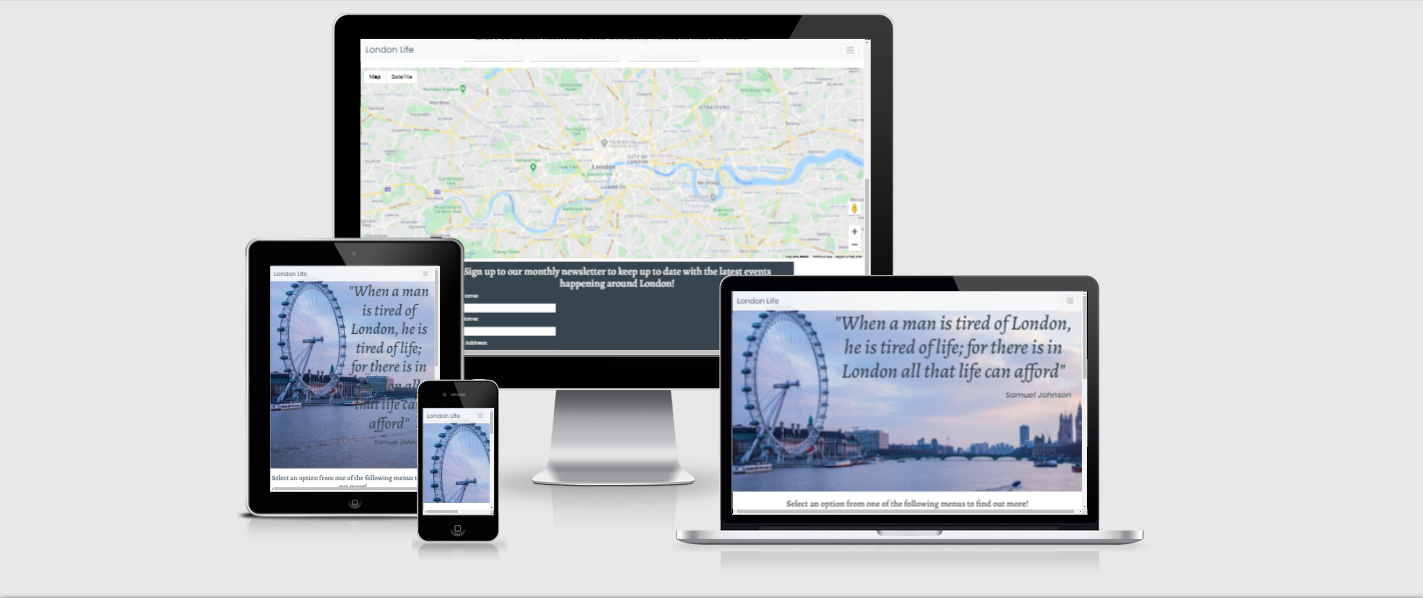
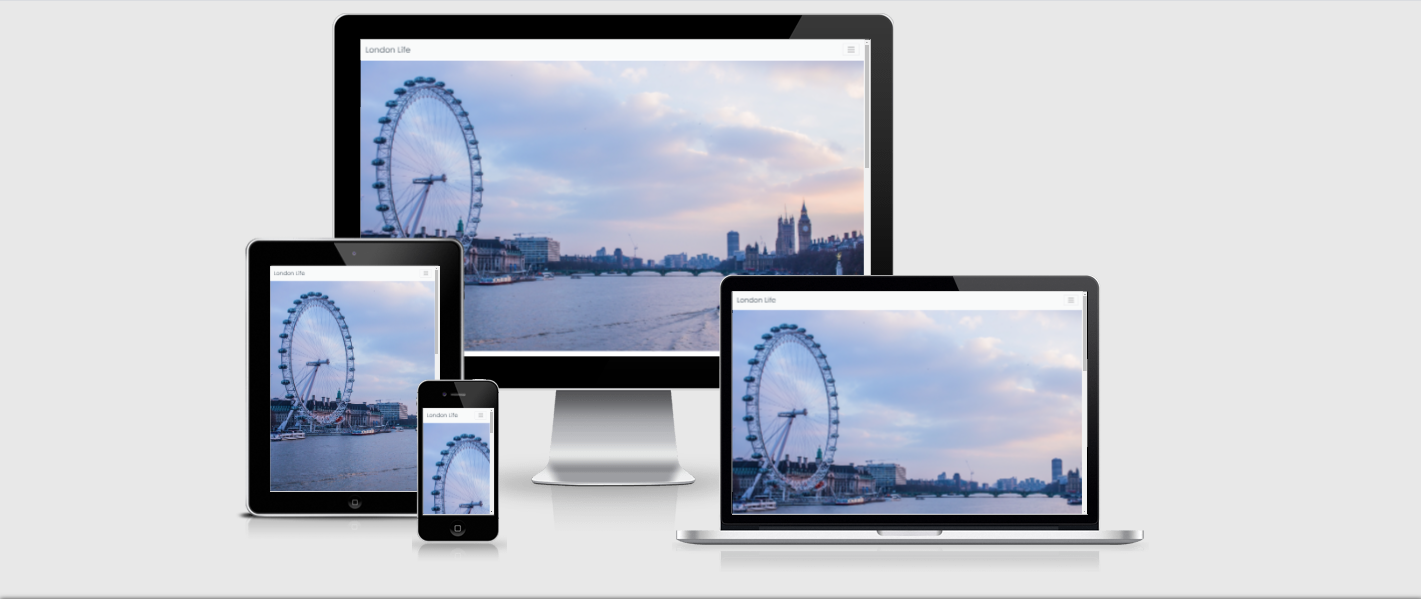
added more to Testing section of README.MD

Changed region(s): [[0.1548, 0.0602, 0.8051, 0.9331], [0.0, 0.9933, 1.0, 1.0]]

diff --git a/index.html b/index.html
@@ -40,34 +40,7 @@
         </nav>
     </header>
     <section>
-        <div class="quote-bg-img" id="slideshow">
-            <!-- <div>
-                <img src="assets/images/quote-bg-img.jpg" alt="The London Eye by the River Thames">
-            </div>
-            <div>
-                <img src="assets/images/img2.jpg" alt="Tower Bridge at sunset">
-            </div>
-            <div>
-                <img src="assets/images/img3.jpg" alt="London skyline at sunset">
-            </div>
-            <div>
-                <img src="assets/images/img4.jpg" alt="Tower Bridge at Night">
-            </div>
-            <div>
-                <img src="assets/images/img5.jpg" alt="London train station">
-            </div>
-            <div>
-                <img src="assets/images/img6.jpg" alt="Quiet old London side street">
-            </div>
-            <div>
-                <img src="assets/images/img7.jpg" alt="View of St Pauls Cathedral from the Millenium Bridge">
-            </div>
-            <div>
-                <img src="assets/images/img8.jpg" alt="St Pauls Cathedral">
-            </div>
-            <div>
-                <img src="assets/images/img9.jpg" alt="London skyline during daytime">
-            </div> -->
+        <div class="quote-bg-img">
         </div>
         <h1 class="hero-quote"><em>"When a man is tired of London, he is tired of life; 
                 for there is in London all that life can afford"</em></h1>
@@ -132,53 +105,35 @@
     </section>
     <section id="form-nav-link" class="container">
     <div class="row">
-        <div class="container signup-form">
+        <div class="container newsletter-form">
             <form class="row form" id="signup-form" onsubmit="return sendMail(this);">
                 <div class="col-12">
                     <h3 class="form-header">Sign up to our monthly newsletter!</h3>
                     <div class="row">
                         <div class="col-md-6 mb-3">
                             <label for="fname">First name:</label>
-                            <input type="text" class="form-control" id="fname" pattern="[A-Za-z]{1,20}" required>
+                            <input type="text" class="form-control" id="fname" placeholder="John" pattern="[A-Za-z]{1,20}" required>
                         </div>
                         <div class="col-md-6 mb-3">
                             <label for="lname">Last name:</label>
-                            <input type="text" class="form-control" id="lname" pattern="[A-Za-z]{1,20}" required>
+                            <input type="text" class="form-control" id="lname" placeholder="Doe" pattern="[A-Za-z]{1,20}" required>
                         </div>
                     </div>
                     <div class="row">
                         <div class="col-md-6 mb-3">
                             <label for="phone">Phone:</label>
-                            <input type="tel" class="form-control" id="phone" pattern="[0-9]{11}" placeholder="000-000-0000" required>
+                            <input type="tel" class="form-control" id="phone" pattern="[0-9]{11}" placeholder="xxxxx-xxxxxx" required>
                         </div>
                         <div class="col-md-6 mb-3">
                             <label for="email">Email:</label>
-                            <input type="email" class="form-control" id="email" placeholder="you@example.com" required>
+                            <input type="email" class="form-control" id="email" placeholder="johndoe@example.com" required>
                         </div>
                     </div>
                     <div class="col-12" id="form-button">
-                        <button class="btn btn-primary btn-lg text-center" id="submit" data-toggle="modal" data-target="#myModal" type="submit">Send</button>
+                        <button class="btn btn-primary btn-lg text-center" id="form-submit" type="submit">Send</button>
                     </div>
                 </div>
             </form>
-        </div>
-    </div>
-    <div class="modal fade" id="myModal" tabindex="-1" role="dialog" aria-labelledby="myModal" aria-hidden="true">
-        <div class="modal-dialog modal-dialog-centered" role="document">
-            <div class="modal-content">
-                <div class="modal-header">
-                    <h3 class="modal-title">Thank You!</h3>
-                    <button type="button" class="close" data-dismiss="modal" aria-label="Close">
-                    <span aria-hidden="true">&times;</span>
-                    </button>
-                </div>
-                <div class="modal-body">
-                    <p>Thanks for signing up to our newsletter! Check your email for a confirmation.</p>
-                </div>
-                <div class="modal-footer">
-                    <button type="button" class="btn btn-primary" id="modal-close-button" data-dismiss="modal">Close</button>
-                </div>
-            </div>
         </div>
     </div>
     </section>

diff --git a/assets/css/style.css b/assets/css/style.css
@@ -107,7 +107,7 @@ body {
 }
 
 /*----------------------------------------------Form*/
-.signup-form {
+.newsletter-form {
     display: block;
     text-align: center;
     min-width: 100%;

diff --git a/README.md b/README.md
@@ -3,10 +3,24 @@ Second Milestone Project for Code Institute
 
  ![](assets/images/devices.PNG)
 
-I wanted to design a website with an interactive map at the heart of it. I chose the Google Maps API as it widely used around the world.
+I wanted to design a website with an interactive map at the heart of it. I chose the Google Maps API as it widely used around the world. 
+I chose London to be the subject of the website as it is somewhere close to my heart having lived there for a few years and it has so much to offer. 
+I wanted to be able to show and give information about various places and attractions in London to someone who may never have visited there or for 
+someone who wanted to learn about some of the things that a visitor might want to know. I chose the EmailJS API so I could customize an auto reply 
+template so if a vistor signed up to the newsletter they would be notified soon after. 
 
 [The live project can be viewed here.](https://jgibson90.github.io/MS2---London-Life/)
 
+---
+# Contents
+- [UX](#ux)
+- [Features](#features)
+- [Technologies Used](#technologies-used)
+- [Testing](#testing)
+- [Bugs](#bugs)
+- [Deployment](#deployment)
+- [Credits](#credits)
+- [Special Thanks](#special-thanks)
 ---
 
 # UX
@@ -18,7 +32,7 @@ I wanted to design a website with an interactive map at the heart of it. I chose
     - As a user, I want to be able to easily interact with the site and the applications within
     - As a user, I want to be able to sign up to the Newsletter so that I can stay up to date every month
 
-    I made the wireframe using Balsamiq which you can view the wireframe [here.](assets/docs/London-Life-Wireframe.pdf)
+    I made the wireframe using Balsamiq which you can view the wireframe [here.](assets/images/Wireframe.png)
 
 ## Design Choices
 ---
@@ -42,15 +56,16 @@ footer.
 ![](assets/images/colours.png)
 
 # Features
-- Responsive on all device sizes
-- Fixed navbar making navigation intuitive and simple
-- Interactive Google Maps API with dropdown menus to plot markers with info windows
-- Contact form with EmailJS integration 
-- Social media links
+- Responsive on all device sizes.
+- Fixed navbar making navigation intuitive and simple.
+- Interactive Google Maps API with dropdown menus to plot markers with info windows.
+- Contact form with EmailJS integration.
+- Social media links.
 
 ## Future Features
-- More map interactivity
-- Backend Languages to handle the form data
+- More map interactivity.
+- Modals for both successful and unsuccessful form submissions.
+- Backend Languages to handle the form data.
 
 # Technologies used
 ## Languages used
@@ -60,20 +75,33 @@ footer.
 
 ## Tools, Frameworks and Libraries used
 - [Git](https://git-scm.com/) 
-    - Git was used for version control, using the Terminal to commit and push to GitHub
+    - Git was used for version control, using the Terminal to commit and push to GitHub.
 - [Font Awesome](https://fontawesome.com/)
-    - Font Awesome was used to add icons to the footer for better UX amd aesthetics 
+    - Font Awesome was used to add icons to the footer for better UX amd aesthetics.
 - [Bootstrap](https://getbootstrap.com/)
-    - Bootstrap was used to aid with the responsiveness of the website across multiple devices
+    - Bootstrap was used to aid with the responsiveness of the website across multiple devices.
+- [Google Maps](https://developers.google.com/maps) API
+    - I chose the Google Maps API for my interactive map as it has over a billion monthly users.
+- [EmailJS](https://www.emailjs.com/) API 
+    - I chose the EmailJS API to handle my newsletter signup form as it is simple to use and has many options for customization as a developer.
 - [Google Fonts](https://fonts.google.com/)
-    - Google Fonts were used to import the Alegreya and Poppins fonts into the style.css file for headings and the main body respectively
+    - Google Fonts were used to import the Alegreya and Poppins fonts into the style.css file for headings and the main body respectively.
 - [Balsamiq](https://balsamiq.com/) 
-    - Balsamiq was used to create the wireframes for the project
+    - Balsamiq was used to create the wireframes for the project.
 
 # Testing
-I used the [CSS Validator](https://jigsaw.w3.org/css-validator/) and the [JS Validator](https://esprima.org/demo/validate.htm) which passed with no errors. I also 
-used the [HTML Validator](https://validator.w3.org/) which brought up the following errors:
-- Section lacks heading. From line 94, column 5; to line 94, column 25
+I used the [CSS Validator](https://jigsaw.w3.org/css-validator/) which brought up two errors which can be seen [here](assets/images/CSSTest.PNG). I also 
+used the [HTML Validator](https://validator.w3.org/) which brought up these three warnings which can be seen [here.](assets/images/HTMLTest.PNG)
+### Fixes
+- I simply removed the comma in the middle of the two `margin:0, auto` declarations in the `.btn` and `#form-button` sections of my style.css.
+- Given that the Map is a section in it's own right I don't feel the need to add a heading as I think it will detract from the flow of the page.
+- With regards to the two warnings about the type attribute being unnecessary for JavaScript resources, I removed the `type` attribute and it caused the code to fail so I have left them in place.
+
+## JSHint Testing
+I ran my JavaScript through [JSHint](https://jshint.com/) and it displayed these warnings for my [maps.js file.](assets/images/JSHint1.PNG)
+    - After reviewing these I added the missing semicolons in the maps.js file.
+
+I also ran my sendEmail.js file through JSHint and it returned no warnings or errors which can be seen [here.](assets/images/JSHint2.PNG)
 
 ## Testing User Stories from UX 
 1. As a user, I want to immediately understand what is offered by the website
@@ -88,21 +116,27 @@ used the [HTML Validator](https://validator.w3.org/) which brought up the follow
 3. As a user, I want to be able to easily interact with the site and the applications within
 
     1. The Google Maps API has 3 seperate dropdown menus to choose from. Each one contains a different set of locations with corresponing markers and info windows which appear on the map with a Drop animation when they are selected
-    2. The sign up form has EmailJS integration and will notify the user if the inputs are not entered correctly. It also shows a modal on submitting the form.
+    2. The sign up form has EmailJS integration and will notify the user if the inputs are not entered correctly. Upon successfully submitting the form, an auto reply is sent to the user confirming that they have signed up to the newsletter successfully.
 
 
+## Further Testing 
+- The project was tested on Google Chrome, Mozilla Firefox, Safari for iOS and Microsoft Edge.
+- The project was viewed on a variety of different devices such as Desktop, Laptop, iPhone 7, iPhone 8, iPhone 11, and iPad.
+- I asked friends and family to view the project and give feedback on any user experience issues and/or bugs. 
 
-### Fixes
-- Given that the Map is a section in it's own right I don't feel the need to add a heading as I think it will detract from the flow of the page.
+## EmailJS Testing
+- Firstly I set up my two templates for my emails, one being the auto reply to the user and the other being the one sent to the London Life email which can be seen [here](assets/images/EmailJSTemplate2.PNG) and [here](assets/images/EmailJSTemplate1.PNG) respectively.
+- Then I filled in the form with my details and checked to see if I recieved both the auto reply and the confirmation that there was a new sign up to the newsletter. Proof of which can be seen [here](assets/images/EmailJSTest-3.PNG), [here](assets/images/EmailJSTest-4.PNG) and [here.](assets/images/EmailJSTest-5.PNG)
 
 # Bugs
-Following on from Testing I also encoutered these bugs, below each one are the
-relevant fixes. 
+Following on from Testing I also encoutered these bugs.
 ## During development
 - Signup form refused to center despite Bootstrap grid and CSS styling
     - Shift + f5 to clear the cache 
 - Google Maps markers and info windows not appearing in the map
     - Tutor Support, my mentor and Stack Overflow helped me decipher where I was going wrong
+- On iPhone the phone input on the form could not be entered correctly due to the pattern I had specified
+    - I removed the hyphens from the pattern to fix the issue
 
 
 # Deployment
@@ -131,6 +165,8 @@ under the **GitHub pages** section
 ## Code
 - I used [Bootstrap 4](https://getbootstrap.com/) to make the site
 responsive on different devices.
+
+- I used the EmailJS tutorial from Code Institutes course to help write my EmailJS function.
 
 - I was provided the fix to add infoWindows to my Markers on Stack Overflow, you can view it [here.](https://stackoverflow.com/questions/66689094/how-can-i-add-info-windows-to-a-marker-event-listener)
  
